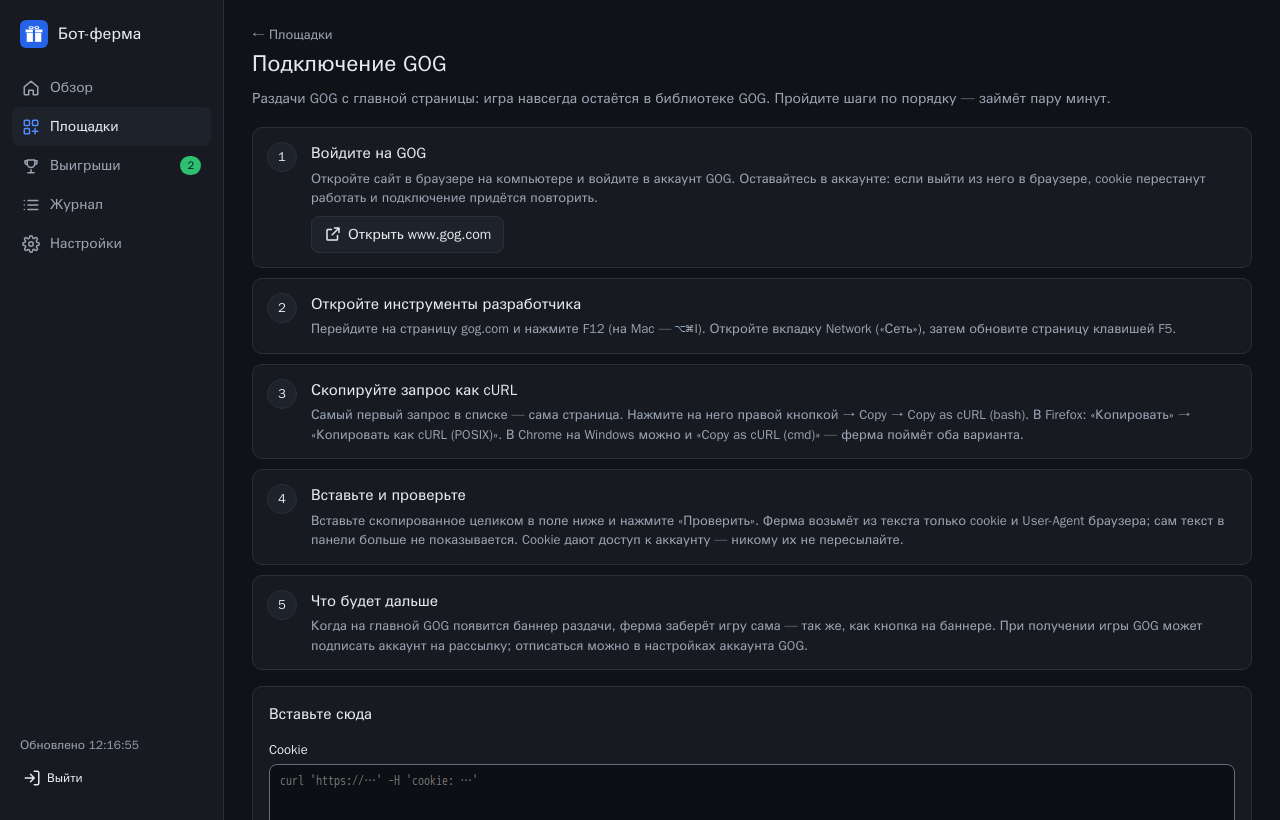
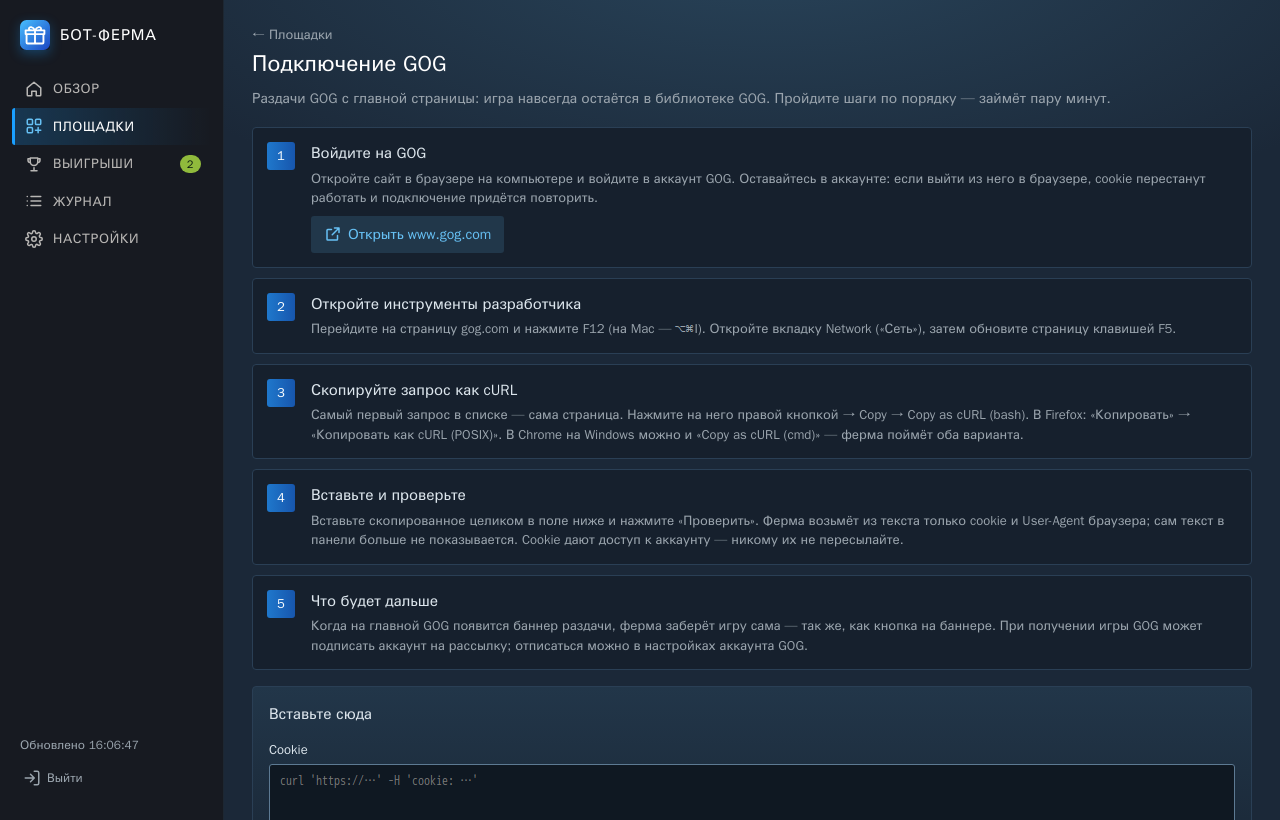
Panel: store-style theme shared with the project page
Same tokens as the site: navy background, the dark side bar, blue
buttons for actions and green for activating a win, square corners.
Site statuses take the friends-list colours: running green, waiting
blue, stopped grey. A new win shows an achievement toast once per
browser. New icon and manifest colours; screenshots retaken.

diff --git a/steamgiftbot/farm/static/index.html b/steamgiftbot/farm/static/index.html
@@ -3,7 +3,7 @@
 <head>
 <meta charset="utf-8">
 <meta name="viewport" content="width=device-width, initial-scale=1, viewport-fit=cover">
-<meta name="theme-color" content="#171b21">
+<meta name="theme-color" content="#171a21">
 <meta name="apple-mobile-web-app-capable" content="yes">
 <meta name="apple-mobile-web-app-title" content="Бот-ферма">
 <link rel="manifest" href="/manifest.webmanifest">
@@ -11,32 +11,46 @@
 <link rel="apple-touch-icon" href="/icon-192.png">
 <title>Бот-ферма</title>
 <style>
+/* Dressed like a game store and client, same tokens as the project page:
+   navy #1b2838, the #171a21 bar, light-blue links, blue buttons for actions,
+   green for "take it", square corners. Statuses use the friends-list colours:
+   in game (running) green, online (waiting) blue, offline (stopped) grey. */
 :root{
-  --bg:#0f1216;--panel:#171b21;--panel2:#1e232b;--line:#2a303a;--field:#646d7e;--text:#e6e9ee;--muted:#9aa3b2;
-  --link:#4f8cff;--primary:#2563eb;--ok:#2fbf71;--warn:#e0a526;--bad:#f0726b;--sleep:#8b98ff;--focus:#8ab4ff;
-  --radius:10px;--nav:224px;font-synthesis:none;
+  --bg:#1b2838;--bar:#171a21;--panel:#16202d;--panel2:#213245;--line:#2a3f55;--field:#5d7a93;--text:#dce5ec;--muted:#9aa4ad;
+  --link:#66c0f4;--primary:#1a6fc4;--ok:#90ba3c;--warn:#e0a526;--bad:#ef6f68;--sleep:#57cbde;--off:#898989;--focus:#66c0f4;
+  --btn:linear-gradient(90deg,#1f78cc 0%,#1756ad 100%);--btn-hi:linear-gradient(90deg,#2585dd 0%,#1a62c2 100%);
+  --btn-go:linear-gradient(90deg,#4f7f1b 0%,#3f6614 100%);--btn-go-hi:linear-gradient(90deg,#5a8f20 0%,#487318 100%);
+  --mark:linear-gradient(135deg,#47bfff 0%,#1a44c2 100%);--tint:rgba(103,193,245,.14);--tint-ink:#67c1f5;
+  --row-hover:linear-gradient(90deg,#c6e6f8 5%,#95bcd3 95%);--row-ink:#10161b;
+  --card:linear-gradient(180deg,rgba(42,71,94,.45) 0%,rgba(22,32,45,.9) 100%);
+  --radius:4px;--nav:224px;font-synthesis:none;
   /* one colour per site, checked for colour-blind separation on --panel */
   --s-steamgifts:#3987e5;--s-indiegala:#d95926;--s-opiumpulses:#199e70;--s-other:#c98500;
 }
 *{box-sizing:border-box}
 html{color-scheme:dark}
-body{margin:0;background:var(--bg);color:var(--text);font:14px/1.5 system-ui,-apple-system,"Segoe UI",Roboto,sans-serif}
+body{margin:0;background:radial-gradient(ellipse 80% 420px at 60% -60px,rgba(42,71,94,.9),transparent 70%),var(--bg);background-repeat:no-repeat;color:var(--text);font:14px/1.5 "Motiva Sans",system-ui,-apple-system,"Segoe UI",Roboto,Arial,sans-serif}
 a{color:var(--link);text-decoration:none}
-a:hover{text-decoration:underline}
-h1{font-size:22px;margin:0;line-height:1.25}
+a:hover{text-decoration:underline;color:#fff}
+h1{font-size:22px;margin:0;line-height:1.25;color:#fff;font-weight:600}
 h2{font-size:16px;margin:0}
 h3{font-size:14px;margin:0}
 p{margin:0}
 button,input,select,textarea{font:inherit;color:inherit}
-button,.btn{display:inline-flex;align-items:center;gap:6px;background:var(--panel2);border:1px solid var(--line);border-radius:8px;padding:7px 12px;min-height:36px;cursor:pointer;color:var(--text);text-decoration:none;white-space:nowrap}
-button:hover,.btn:hover{border-color:#3d4654;text-decoration:none}
-button.primary,.btn.primary{background:var(--primary);border-color:var(--primary);color:#fff}
-button.danger{color:var(--bad)}
-button.ghost{background:none;border-color:transparent}
-button:disabled{opacity:.45;cursor:default}
+button,.btn{display:inline-flex;align-items:center;gap:6px;background:var(--tint);border:1px solid transparent;border-radius:3px;padding:7px 12px;min-height:36px;cursor:pointer;color:var(--tint-ink);text-decoration:none;white-space:nowrap;transition:background .15s,color .15s}
+button:hover,.btn:hover{background:#67c1f5;color:var(--row-ink);text-decoration:none}
+button.primary,.btn.primary{background:var(--btn);color:#fff;box-shadow:inset 0 1px 0 rgba(255,255,255,.15)}
+button.primary:hover,.btn.primary:hover{background:var(--btn-hi);color:#fff}
+button.go,.btn.go{background:var(--btn-go);color:#fff;box-shadow:inset 0 1px 0 rgba(255,255,255,.15)}
+button.go:hover,.btn.go:hover{background:var(--btn-go-hi);color:#fff}
+button.danger{color:var(--bad);background:rgba(239,111,104,.1)}
+button.danger:hover{background:var(--bad);color:#1f0b0a}
+button.ghost{background:none;border-color:transparent;color:var(--muted)}
+button.ghost:hover{background:var(--tint);color:#fff}
+button:disabled{opacity:.45;cursor:default;pointer-events:none}
 button.icon{padding:6px;min-width:36px;justify-content:center}
 :focus-visible{outline:2px solid var(--focus);outline-offset:2px}
-input,select,textarea{background:#0c0f13;border:1px solid var(--field);border-radius:8px;padding:8px 10px;width:100%;min-height:38px}
+input,select,textarea{background:#0f1822;border:1px solid var(--field);border-radius:3px;padding:8px 10px;width:100%;min-height:38px}
 textarea{min-height:90px;resize:vertical;font:12px/1.4 ui-monospace,SFMono-Regular,Menlo,Consolas,monospace}
 svg.i{width:18px;height:18px;flex:none;stroke:currentColor;fill:none;stroke-width:2;stroke-linecap:round;stroke-linejoin:round}
 .hidden{display:none!important}
@@ -46,12 +60,12 @@ svg.i{width:18px;height:18px;flex:none;stroke:currentColor;fill:none;stroke-widt
 
 /* ---- shell ---- */
 .shell{display:grid;grid-template-columns:var(--nav) minmax(0,1fr);min-height:100vh}
-.side{position:sticky;top:0;height:100vh;background:var(--panel);border-right:1px solid var(--line);display:flex;flex-direction:column;padding:16px 12px;gap:4px}
-.brand{display:flex;align-items:center;gap:10px;font-weight:600;font-size:16px;padding:4px 8px 16px}
-.brand img{width:28px;height:28px}
-.nav a{display:flex;align-items:center;gap:10px;padding:9px 10px;border-radius:8px;color:var(--muted);font-weight:500}
-.nav a:hover{background:var(--panel2);color:var(--text);text-decoration:none}
-.nav a.on{background:var(--panel2);color:var(--text)}
+.side{position:sticky;top:0;height:100vh;background:var(--bar);border-right:1px solid rgba(102,192,244,.08);display:flex;flex-direction:column;padding:16px 12px;gap:4px}
+.brand{display:flex;align-items:center;gap:10px;font-weight:700;font-size:15px;letter-spacing:.06em;text-transform:uppercase;color:#fff;padding:4px 8px 16px}
+.brand img{width:30px;height:30px;border-radius:4px;box-shadow:0 4px 12px rgba(26,159,255,.3)}
+.nav a{display:flex;align-items:center;gap:10px;padding:9px 10px;border-radius:3px;color:#b8b6b4;font-weight:600;font-size:13px;letter-spacing:.05em;text-transform:uppercase;border-left:3px solid transparent}
+.nav a:hover{background:rgba(103,193,245,.08);color:#fff;text-decoration:none}
+.nav a.on{background:linear-gradient(90deg,rgba(26,159,255,.22),rgba(26,159,255,0));color:#fff;border-left-color:#1a9fff}
 .nav a.on svg{color:var(--link)}
 .badge{margin-left:auto;background:var(--ok);color:#0b1a12;font-size:11px;font-weight:700;border-radius:99px;padding:1px 7px;min-width:20px;text-align:center}
 .badge.bad{background:var(--bad);color:#1f0b0a}
@@ -66,9 +80,9 @@ svg.i{width:18px;height:18px;flex:none;stroke:currentColor;fill:none;stroke-widt
   .shell{grid-template-columns:1fr}
   .side{display:none}
   .content{padding:16px 16px 96px}
-  .tabbar{display:flex;position:fixed;left:0;right:0;bottom:0;z-index:5;background:var(--panel);border-top:1px solid var(--line);padding:4px 4px calc(4px + env(safe-area-inset-bottom))}
+  .tabbar{display:flex;position:fixed;left:0;right:0;bottom:0;z-index:5;background:var(--bar);border-top:1px solid rgba(102,192,244,.12);padding:4px 4px calc(4px + env(safe-area-inset-bottom))}
   .tabbar a{flex:1;display:flex;flex-direction:column;align-items:center;gap:2px;padding:6px 2px;min-height:52px;color:var(--muted);font-size:11px;position:relative}
-  .tabbar a.on{color:var(--text)}
+  .tabbar a.on{color:#fff;box-shadow:inset 0 2px 0 #1a9fff}
   .tabbar a.on svg{color:var(--link)}
   .tabbar .dot{position:absolute;top:4px;left:calc(50% + 8px);width:9px;height:9px;border-radius:50%;background:var(--ok)}
   button,.btn{min-height:44px}
@@ -77,18 +91,18 @@ svg.i{width:18px;height:18px;flex:none;stroke:currentColor;fill:none;stroke-widt
 }
 
 /* ---- blocks ---- */
-.block{background:var(--panel);border:1px solid var(--line);border-radius:var(--radius);padding:16px}
+.block{background:var(--card);border:1px solid var(--line);border-radius:var(--radius);padding:16px}
 .block + .block,.stack > * + *{margin-top:16px}
 .block-head{display:flex;align-items:center;gap:10px;margin-bottom:12px;flex-wrap:wrap}
 .block-head a{margin-left:auto;font-size:13px}
 .grid{display:grid;grid-template-columns:repeat(auto-fill,minmax(300px,1fr));gap:16px}
-.pill{font-size:12px;padding:2px 10px;border-radius:99px;border:1px solid currentColor;white-space:nowrap}
-.s-running{color:var(--ok)}.s-sleeping{color:var(--sleep)}.s-stopped{color:var(--muted)}
+.pill{font-size:12px;padding:2px 9px;border-radius:3px;border:0;background:rgba(0,0,0,.25);box-shadow:inset 3px 0 0 currentColor;white-space:nowrap}
+.s-running{color:var(--ok)}.s-sleeping{color:var(--sleep)}.s-stopped{color:var(--off)}
 .s-error{color:var(--warn)}.s-auth{color:var(--bad)}.s-unset{color:var(--muted)}
 .dot-site{width:10px;height:10px;border-radius:3px;flex:none}
 .why{font-size:13px;background:var(--panel2);border-radius:8px;padding:7px 10px}
-.err{background:rgba(240,114,107,.1);border:1px solid rgba(240,114,107,.4);color:#f5aaa5;border-radius:8px;padding:8px 10px;font-size:13px;word-break:break-word}
-.okbox{background:rgba(47,191,113,.1);border:1px solid rgba(47,191,113,.45);border-radius:8px;padding:10px 12px}
+.err{background:rgba(239,111,104,.1);border:1px solid rgba(239,111,104,.4);color:#f2a19c;border-radius:8px;padding:8px 10px;font-size:13px;word-break:break-word}
+.okbox{background:rgba(164,208,7,.1);border:1px solid rgba(164,208,7,.4);border-radius:8px;padding:10px 12px}
 .note{background:rgba(224,165,38,.08);border:1px solid rgba(224,165,38,.35);border-radius:8px;padding:10px 12px;font-size:13px}
 .empty{color:var(--muted);padding:22px 4px;text-align:center}
 .empty b{display:block;color:var(--text);font-size:15px;margin-bottom:4px}
@@ -97,23 +111,24 @@ svg.i{width:18px;height:18px;flex:none;stroke:currentColor;fill:none;stroke-widt
 /* overview */
 .summary{display:grid;grid-template-columns:minmax(0,320px) minmax(0,1fr);gap:16px;margin-bottom:16px}
 .tiles{display:grid;grid-template-columns:1fr 1fr;gap:8px;align-content:start}
-.tile{background:var(--panel);border:1px solid var(--line);border-radius:var(--radius);padding:12px}
-.tile b{display:block;font-size:22px;font-variant-numeric:tabular-nums;line-height:1.25}
+.tile{background:var(--card);border:1px solid var(--line);border-radius:var(--radius);padding:12px}
+.tile b{display:block;font-size:22px;color:#fff;font-variant-numeric:tabular-nums;line-height:1.25}
 .tile b.long{font-size:15px;padding:4px 0 2px}
 .tile small{color:var(--muted);font-size:12px}
-.chart{background:var(--panel);border:1px solid var(--line);border-radius:var(--radius);padding:12px 14px;position:relative;min-width:0}
+.chart{background:var(--card);border:1px solid var(--line);border-radius:var(--radius);padding:12px 14px;position:relative;min-width:0}
 .chart-head{display:flex;flex-wrap:wrap;gap:8px 14px;align-items:center;margin-bottom:6px}
 .chart-head h2{margin-right:auto;font-size:14px}
 .legend{display:flex;flex-wrap:wrap;gap:4px 12px;font-size:12px;color:var(--muted)}
 .legend i,.tip i{display:inline-block;width:10px;height:10px;border-radius:3px;margin-right:5px;vertical-align:-1px}
-.seg{display:inline-flex;border:1px solid var(--line);border-radius:8px;overflow:hidden;flex-wrap:wrap}
+.seg{display:inline-flex;border:1px solid var(--line);border-radius:3px;overflow:hidden;flex-wrap:wrap}
 .seg button{border:0;border-radius:0;padding:4px 10px;min-height:30px;background:none;color:var(--muted);font-size:12px}
-.seg button.on{background:var(--panel2);color:var(--text)}
+.seg button:hover{background:var(--tint);color:#fff}
+.seg button.on{background:var(--btn);color:#fff}
 #chartBox{min-height:190px}
 #chartBox svg{display:block}
 #chartBox .hit:hover{fill:rgba(255,255,255,.04)}
 .tbl{max-height:190px;overflow:auto}
-.tip{position:absolute;pointer-events:none;background:#0c0f13;border:1px solid var(--line);border-radius:8px;padding:7px 10px;font-size:12px;white-space:nowrap;z-index:2;line-height:1.6}
+.tip{position:absolute;pointer-events:none;background:#0f1822;border:1px solid var(--line);border-radius:8px;padding:7px 10px;font-size:12px;white-space:nowrap;z-index:2;line-height:1.6}
 .tip .n{float:right;margin-left:14px;font-variant-numeric:tabular-nums}
 .rows{display:flex;flex-direction:column}
 .srow{display:grid;grid-template-columns:minmax(0,1.4fr) minmax(0,2fr) auto;gap:10px 16px;align-items:center;padding:10px 0;border-top:1px solid var(--line)}
@@ -125,13 +140,13 @@ svg.i{width:18px;height:18px;flex:none;stroke:currentColor;fill:none;stroke-widt
 .srow .act{display:flex;gap:6px}
 @media (max-width:900px){.summary{grid-template-columns:1fr}.srow{grid-template-columns:1fr auto}.srow .info{grid-column:1/-1;grid-row:2}}
 .wins{display:flex;flex-direction:column;gap:8px;margin-bottom:16px}
-.win{display:flex;flex-wrap:wrap;align-items:center;gap:8px 12px;background:rgba(47,191,113,.1);border:1px solid rgba(47,191,113,.45);border-radius:var(--radius);padding:10px 14px}
+.win{display:flex;flex-wrap:wrap;align-items:center;gap:8px 12px;background:linear-gradient(90deg,rgba(164,208,7,.16),rgba(164,208,7,.04));border:1px solid rgba(164,208,7,.4);border-radius:var(--radius);padding:10px 14px}
 .win .big{font-size:20px}
 .win .sp{flex:1}
 .more{color:var(--muted);font-size:12px}
 
 /* site cards and catalog */
-.card{background:var(--panel);border:1px solid var(--line);border-radius:var(--radius);padding:16px;display:flex;flex-direction:column;gap:12px}
+.card{background:var(--card);border:1px solid var(--line);border-radius:var(--radius);padding:16px;display:flex;flex-direction:column;gap:12px}
 .card-head{display:flex;align-items:flex-start;gap:10px}
 .card-head .pill{margin-left:auto}
 .card-head .desc{color:var(--muted);font-size:12px}
@@ -141,53 +156,55 @@ svg.i{width:18px;height:18px;flex:none;stroke:currentColor;fill:none;stroke-widt
 .stat small{color:var(--muted);font-size:12px}
 .card .actions{display:flex;flex-wrap:wrap;gap:8px;margin-top:auto}
 .cat{border-style:dashed}
-.tag{display:inline-block;font-size:11px;font-weight:600;letter-spacing:.3px;text-transform:uppercase;color:var(--muted);background:var(--panel2);border-radius:6px;padding:2px 7px}
+.tag{display:inline-block;font-size:11px;font-weight:600;letter-spacing:.3px;text-transform:uppercase;color:var(--tint-ink);background:var(--tint);border-radius:3px;padding:2px 7px}
 .bars{display:flex;flex-direction:column;gap:8px}
 .bar{font-size:12px;color:var(--muted)}
 .bar .v{float:right;color:var(--text);font-variant-numeric:tabular-nums}
 .bar .track{height:6px;background:var(--panel2);border-radius:99px;overflow:hidden;margin-top:3px}
-.bar .fill{height:100%;background:var(--link);border-radius:99px}
+.bar .fill{height:100%;background:linear-gradient(90deg,#1a9fff,#66c0f4);border-radius:99px}
 .bar.full .fill{background:var(--warn)}
 
 /* tabs */
 .tabs{display:flex;gap:2px;border-bottom:1px solid var(--line);margin-bottom:16px;overflow-x:auto}
 .tabs a,.tabs button{border:0;background:none;border-bottom:2px solid transparent;border-radius:0;padding:10px 12px;color:var(--muted);min-height:40px;font-weight:500}
 .tabs a:hover{text-decoration:none;color:var(--text)}
-.tabs .on{color:var(--text);border-bottom-color:var(--link)}
+.tabs .on{color:#fff;border-bottom-color:#1a9fff}
 
 /* forms */
 .form{display:flex;flex-direction:column;gap:14px}
-.fieldset{background:var(--panel);border:1px solid var(--line);border-radius:var(--radius);padding:16px;display:flex;flex-direction:column;gap:14px}
+.fieldset{background:var(--card);border:1px solid var(--line);border-radius:var(--radius);padding:16px;display:flex;flex-direction:column;gap:14px}
 .fieldset > h2{font-size:15px}
 .fieldset > p{color:var(--muted);font-size:13px;margin-top:-8px}
 .f label{display:block;font-size:13px;margin-bottom:5px;font-weight:500}
 .f small{display:block;color:var(--muted);font-size:12px;margin-top:4px}
 .chk{display:flex;gap:10px;align-items:flex-start}
-.chk input{width:20px;height:20px;min-height:0;margin:1px 0 0;flex:none;accent-color:var(--primary)}
+.chk input{width:20px;height:20px;min-height:0;margin:1px 0 0;flex:none;accent-color:#1a9fff}
 .chk label{margin:0;font-weight:400}
 .cols{display:grid;grid-template-columns:repeat(auto-fill,minmax(240px,1fr));gap:14px}
 .savebar{position:sticky;bottom:0;display:flex;gap:10px;align-items:center;justify-content:flex-end;background:var(--bg);padding:12px 0;border-top:1px solid var(--line);z-index:3}
 @media (max-width:900px){.savebar{bottom:64px}}
 .presets{display:grid;grid-template-columns:repeat(auto-fill,minmax(210px,1fr));gap:10px}
-.preset{background:var(--panel2);border:1px solid var(--line);border-radius:var(--radius);padding:12px;display:flex;flex-direction:column;gap:6px;text-align:left;white-space:normal;align-items:flex-start;cursor:pointer}
+.preset{background:var(--panel);color:var(--text);border:1px solid var(--line);border-radius:var(--radius);padding:12px;display:flex;flex-direction:column;gap:6px;text-align:left;white-space:normal;align-items:flex-start;cursor:pointer}
 .preset b{font-size:14px}
 .preset span{color:var(--muted);font-size:12px}
-.preset.on{border-color:var(--link);box-shadow:inset 0 0 0 1px var(--link)}
+.preset:hover{background:var(--panel2);color:var(--text);border-color:var(--link)}
+.preset.on{border-color:var(--link);box-shadow:inset 0 0 0 1px var(--link);background:rgba(26,159,255,.12)}
 
 /* wizard */
 .steps{list-style:none;margin:0;padding:0;display:flex;flex-direction:column;gap:10px;counter-reset:step}
 .steps li{display:grid;grid-template-columns:32px 1fr;gap:4px 12px;counter-increment:step;background:var(--panel);border:1px solid var(--line);border-radius:var(--radius);padding:14px}
-.steps li::before{content:counter(step);grid-row:span 2;width:28px;height:28px;border-radius:50%;background:var(--panel2);border:1px solid var(--line);display:flex;align-items:center;justify-content:center;font-weight:700;font-size:13px}
+.steps li::before{content:counter(step);grid-row:span 2;width:28px;height:28px;border-radius:3px;background:var(--btn);color:#fff;border:0;display:flex;align-items:center;justify-content:center;font-weight:700;font-size:13px}
 .steps li h3{font-size:15px}
 .steps li p{color:var(--muted);font-size:13px}
 .steps li .btn{margin-top:8px;justify-self:start}
 
 /* tables */
 .table-wrap{overflow:auto;border:1px solid var(--line);border-radius:var(--radius);background:var(--panel)}
+tbody tr:hover td{background:rgba(103,193,245,.06)}
 table{width:100%;border-collapse:collapse;font-size:13px}
 td,th{padding:9px 12px;border-bottom:1px solid var(--line);text-align:left;vertical-align:middle}
 tr:last-child td{border-bottom:0}
-th{color:var(--muted);font-weight:500;font-size:12px;position:sticky;top:0;background:var(--panel);z-index:1}
+th{color:var(--muted);font-weight:600;font-size:11.5px;letter-spacing:.06em;text-transform:uppercase;position:sticky;top:0;background:var(--panel);z-index:1}
 td.n,th.n{text-align:right;font-variant-numeric:tabular-nums;white-space:nowrap}
 td.ok{color:var(--ok)}td.skip{color:var(--muted)}
 td.act{white-space:nowrap;text-align:right;width:1%}
@@ -199,20 +216,20 @@ td select{width:auto;min-height:32px;padding:3px 6px;font-size:12px}
 .toolbar select{width:auto}
 .toolbar .sp{flex:1}
 .pager{display:flex;gap:8px;align-items:center;justify-content:flex-end;margin-top:12px;font-size:13px}
-.log{height:min(62vh,640px);overflow:auto;padding:10px 14px;font:12px/1.55 ui-monospace,SFMono-Regular,Menlo,Consolas,monospace;white-space:pre-wrap;word-break:break-word;background:var(--panel);border:1px solid var(--line);border-radius:var(--radius)}
-.log .t{color:var(--muted)}.log .s{color:var(--muted)}.log .WARNING{color:var(--warn)}.log .ERROR{color:var(--bad)}.log .hit{color:#9fe3bd}
+.log{height:min(62vh,640px);overflow:auto;padding:10px 14px;font:12px/1.55 ui-monospace,SFMono-Regular,Menlo,Consolas,monospace;white-space:pre-wrap;word-break:break-word;background:#0e141b;border:1px solid var(--line);border-radius:var(--radius)}
+.log .t{color:var(--muted)}.log .s{color:var(--muted)}.log .WARNING{color:var(--warn)}.log .ERROR{color:var(--bad)}.log .hit{color:#a4d007}
 
 /* settings */
 .chips{display:flex;flex-wrap:wrap;gap:8px;margin-bottom:16px}
-.chip{display:inline-flex;align-items:center;gap:6px;font-size:13px;padding:6px 12px;border-radius:99px;background:var(--panel);border:1px solid var(--line);color:var(--text)}
-.chip:hover{text-decoration:none;border-color:#3d4654}
-.chip.good{border-color:rgba(47,191,113,.5)}.chip.warn{border-color:rgba(224,165,38,.5)}
-.sects .sect{background:var(--panel);border:1px solid var(--line);border-radius:var(--radius)}
+.chip{display:inline-flex;align-items:center;gap:6px;font-size:13px;padding:6px 12px;border-radius:3px;background:var(--panel);border:1px solid var(--line);color:var(--text)}
+.chip:hover{text-decoration:none;background:var(--row-hover);color:var(--row-ink);border-color:transparent}
+.chip.good{border-color:rgba(144,186,60,.55)}.chip.warn{border-color:rgba(224,165,38,.5)}
+.sects .sect{background:var(--card);border:1px solid var(--line);border-radius:var(--radius)}
 .sects .sect + .sect{margin-top:10px}
 .sect > summary{display:flex;align-items:center;gap:12px;padding:14px 16px;cursor:pointer;list-style:none;border-radius:var(--radius)}
 .sect > summary::-webkit-details-marker{display:none}
-.sect > summary:hover{background:rgba(255,255,255,.02)}
-.sect-ico{width:36px;height:36px;border-radius:9px;background:var(--panel2);display:flex;align-items:center;justify-content:center;color:var(--link);flex:none}
+.sect > summary:hover{background:rgba(103,193,245,.06)}
+.sect-ico{width:36px;height:36px;border-radius:4px;background:var(--panel2);display:flex;align-items:center;justify-content:center;color:var(--link);flex:none}
 .sect-t{display:flex;flex-direction:column;min-width:0;flex:1}
 .sect-t b{font-size:15px;font-weight:600}
 .sect-dirty{font-size:12px;color:var(--warn);border:1px solid rgba(224,165,38,.45);border-radius:99px;padding:1px 8px}
@@ -242,26 +259,33 @@ td select{width:auto;min-height:32px;padding:3px 6px;font-size:12px}
 .numbered{margin:0;padding-left:22px;display:flex;flex-direction:column;gap:10px;font-size:14px}
 .numbered li::marker{color:var(--link);font-weight:700}
 code{font-family:ui-monospace,Menlo,Consolas,monospace;font-size:.92em;background:var(--panel2);border-radius:5px;padding:1px 5px}
-input.switch{appearance:none;-webkit-appearance:none;width:40px;height:22px;min-height:0;border-radius:99px;background:#3a4250;border:0;position:relative;cursor:pointer;flex:none;margin:0;padding:0;transition:background .15s}
+input.switch{appearance:none;-webkit-appearance:none;width:40px;height:22px;min-height:0;border-radius:99px;background:#3d4f63;border:0;position:relative;cursor:pointer;flex:none;margin:0;padding:0;transition:background .15s}
 input.switch::after{content:'';position:absolute;top:3px;left:3px;width:16px;height:16px;border-radius:50%;background:#fff;transition:transform .15s}
-input.switch:checked{background:var(--primary)}
+input.switch:checked{background:#1a9fff}
 input.switch:checked::after{transform:translateX(18px)}
 @media (max-width:600px){.inline{flex-direction:column}.addr .muted{min-width:0;flex-basis:100%}}
 
 /* dialogs and toast */
-.overlay{position:fixed;inset:0;background:rgba(0,0,0,.6);display:flex;align-items:flex-start;justify-content:center;padding:40px 16px;overflow:auto;z-index:10}
-.modal{background:var(--panel);border:1px solid var(--line);border-radius:var(--radius);width:100%;max-width:560px;padding:20px}
+.overlay{position:fixed;inset:0;background:rgba(10,14,20,.7);backdrop-filter:blur(3px);display:flex;align-items:flex-start;justify-content:center;padding:40px 16px;overflow:auto;z-index:10}
+.modal{background:linear-gradient(180deg,#22364b 0%,var(--panel) 220px);border:1px solid var(--line);box-shadow:0 20px 50px rgba(0,0,0,.5);border-radius:var(--radius);width:100%;max-width:560px;padding:20px}
 .modal.wide{max-width:920px}
 .modal h2{margin-bottom:12px}
 .row{display:flex;justify-content:flex-end;gap:8px;margin-top:18px;flex-wrap:wrap}
 .pv-sum{font-size:13px;display:flex;flex-direction:column;gap:4px;margin-bottom:10px}
 .pv-table{max-height:55vh}
-#login{max-width:360px;margin:12vh auto;background:var(--panel);border:1px solid var(--line);border-radius:var(--radius);padding:24px}
+#login{max-width:360px;margin:12vh auto;background:var(--card);box-shadow:0 20px 50px rgba(0,0,0,.4);border:1px solid var(--line);border-radius:var(--radius);padding:24px}
 #login .brand{padding:0 0 16px}
 #login .msg{color:var(--bad);font-size:13px;min-height:20px;margin-top:8px}
-#toast{position:fixed;bottom:18px;left:50%;transform:translateX(-50%);background:var(--panel2);border:1px solid var(--line);padding:10px 16px;border-radius:8px;z-index:20;max-width:90vw}
-#toast.bad{border-color:var(--bad);color:#f5aaa5}
-@media (max-width:900px){#toast{bottom:84px}}
+#toast{position:fixed;bottom:18px;right:18px;display:flex;align-items:center;gap:12px;width:min(360px,calc(100vw - 32px));background:linear-gradient(135deg,#23384f 0%,var(--bar) 100%);border:1px solid rgba(102,192,244,.22);box-shadow:0 12px 30px rgba(0,0,0,.45);padding:11px 14px;border-radius:4px;z-index:20;animation:toastIn .3s cubic-bezier(.2,.8,.2,1)}
+@keyframes toastIn{from{transform:translateY(20px);opacity:0}}
+#toast.bad{border-color:var(--bad);color:#f2a19c}
+#toast .t-ico{width:44px;height:44px;flex:none;border-radius:4px;background:var(--mark);display:grid;place-items:center;color:#fff;box-shadow:inset 0 1px 0 rgba(255,255,255,.3)}
+#toast .t-ico svg{width:24px;height:24px}
+#toast .t-body{display:flex;flex-direction:column;min-width:0;line-height:1.4}
+#toast .t-body b{color:#fff}
+#toast .t-body span{color:#a3adb6;font-size:13px}
+@media (max-width:900px){#toast{bottom:84px;right:16px}}
+@media (prefers-reduced-motion:reduce){#toast{animation:none}}
 </style>
 </head>
 <body>
@@ -333,9 +357,21 @@ async function api(path, body){
   if (!r.ok) throw new Error(data.error || ('HTTP ' + r.status));
   return data;
 }
-function toast(text, bad){
-  const t = $('#toast'); t.textContent = text; t.className = bad ? 'bad' : '';
-  clearTimeout(toast.h); toast.h = setTimeout(() => t.classList.add('hidden'), 4000);
+function toast(text, bad, title){
+  const t = $('#toast'); t.className = bad ? 'bad' : '';
+  t.innerHTML = title ? `<span class="t-ico">${icon('trophy')}</span><span class="t-body"><b>${esc(title)}</b><span>${esc(text)}</span></span>` : esc(text);
+  clearTimeout(toast.h); toast.h = setTimeout(() => t.classList.add('hidden'), title ? 7000 : 4000);
+}
+// A win newer than any this browser has seen gets the achievement toast.
+// The first load only remembers where it is, so old wins stay quiet.
+function announceWins(){
+  const newest = Math.max(0, ...openWins.map(w => w.time || 0));
+  const seen = +localStorageGet('seenWin') || 0;
+  if (seen && newest > seen) {
+    const w = openWins.find(x => x.time === newest);
+    toast(`${w.name} — ${w.title}`, false, 'Достижение получено: выигрыш');
+  }
+  if (newest > seen || !seen) localStorageSet('seenWin', String(newest || Date.now() / 1000));
 }
 const hm = ts => ts ? new Date(ts * 1000).toLocaleTimeString('ru-RU', {hour: '2-digit', minute: '2-digit'}) : '—';
 const dt = ts => ts ? new Date(ts * 1000).toLocaleString('ru-RU', {day: '2-digit', month: '2-digit', hour: '2-digit', minute: '2-digit'}) : '—';
@@ -431,7 +467,7 @@ $('#loginForm').addEventListener('submit', async e => {
 });
 async function poll(){
   const s = await api('/api/status');
-  platforms = s.platforms; openWins = s.wins || [];
+  platforms = s.platforms; openWins = s.wins || []; announceWins();
   $('#clock').textContent = 'Обновлено ' + new Date().toLocaleTimeString('ru-RU', {hour: '2-digit', minute: '2-digit', second: '2-digit'});
 }
 async function tick(){
@@ -584,7 +620,7 @@ function renderWinsBanner(){
   box.innerHTML = openWins.slice(0, 3).map(w => `<div class="win"><span class="big" aria-hidden="true">🎉</span>
       <div><b>${esc(w.name)}</b><div class="small muted">Выигрыш на ${esc(w.title)}, ${dt(w.time)}</div></div><span class="sp"></span>
       ${w.url ? `<a class="btn" href="${esc(w.url)}" target="_blank" rel="noopener">${icon('ext')}Забрать ключ</a>` : ''}
-      <button data-winset="received" ${attrs(w)}>Ключ получен</button><button class="primary" data-winset="activated" ${attrs(w)}>Активирован</button></div>`).join('') +
+      <button data-winset="received" ${attrs(w)}>Ключ получен</button><button class="go" data-winset="activated" ${attrs(w)}>Активирован</button></div>`).join('') +
     (openWins.length > 3 ? `<a class="more" href="#/wins">И ещё ${openWins.length - 3} — все в разделе «Выигрыши» →</a>` : '');
 }
 function renderSiteRows(){
